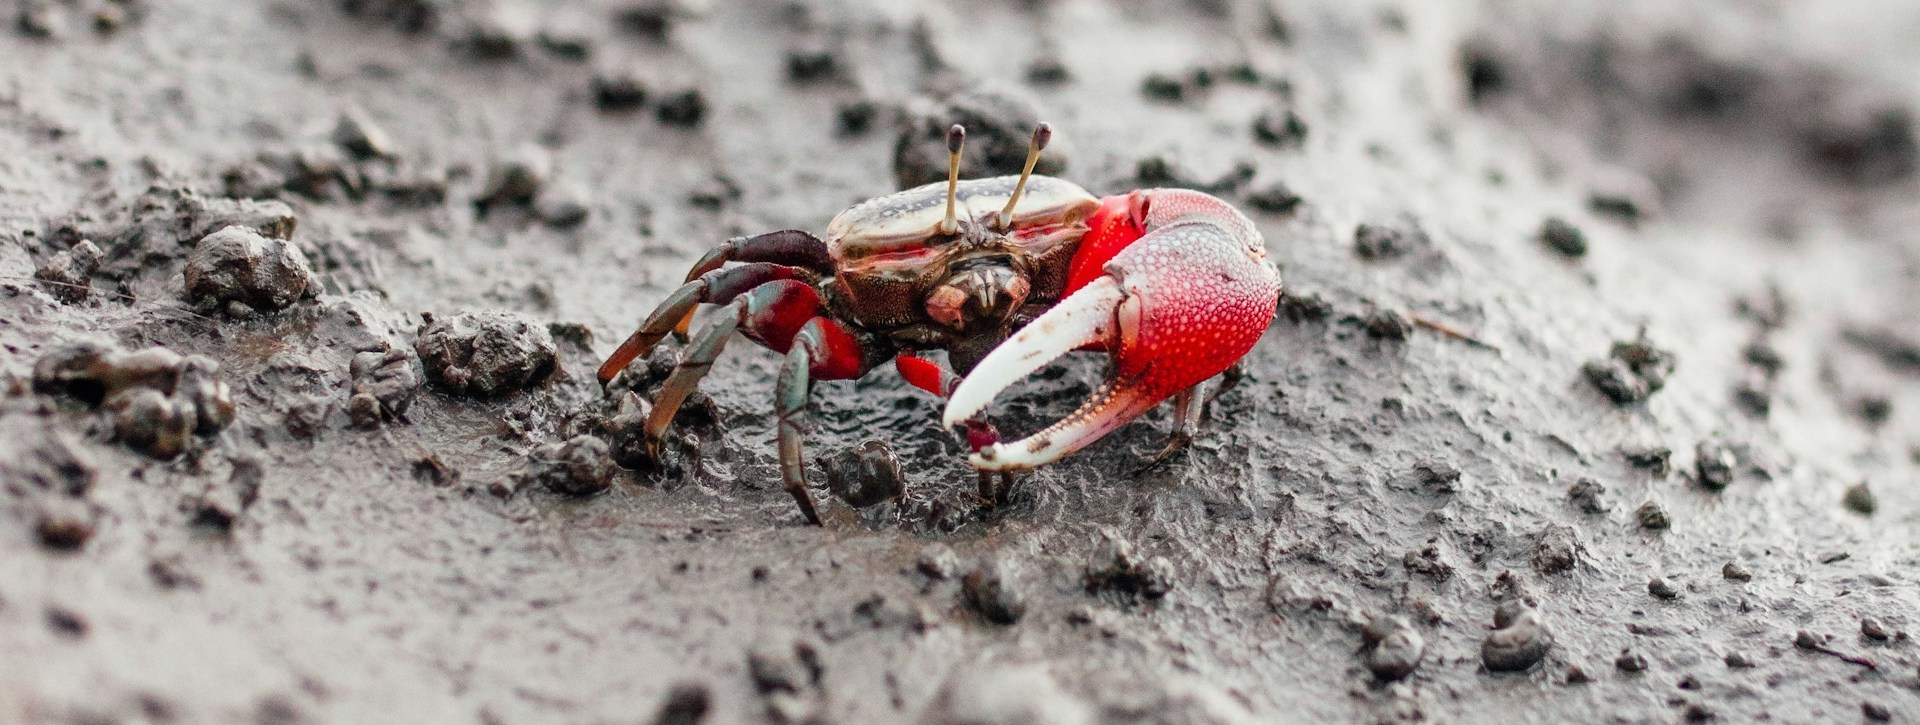
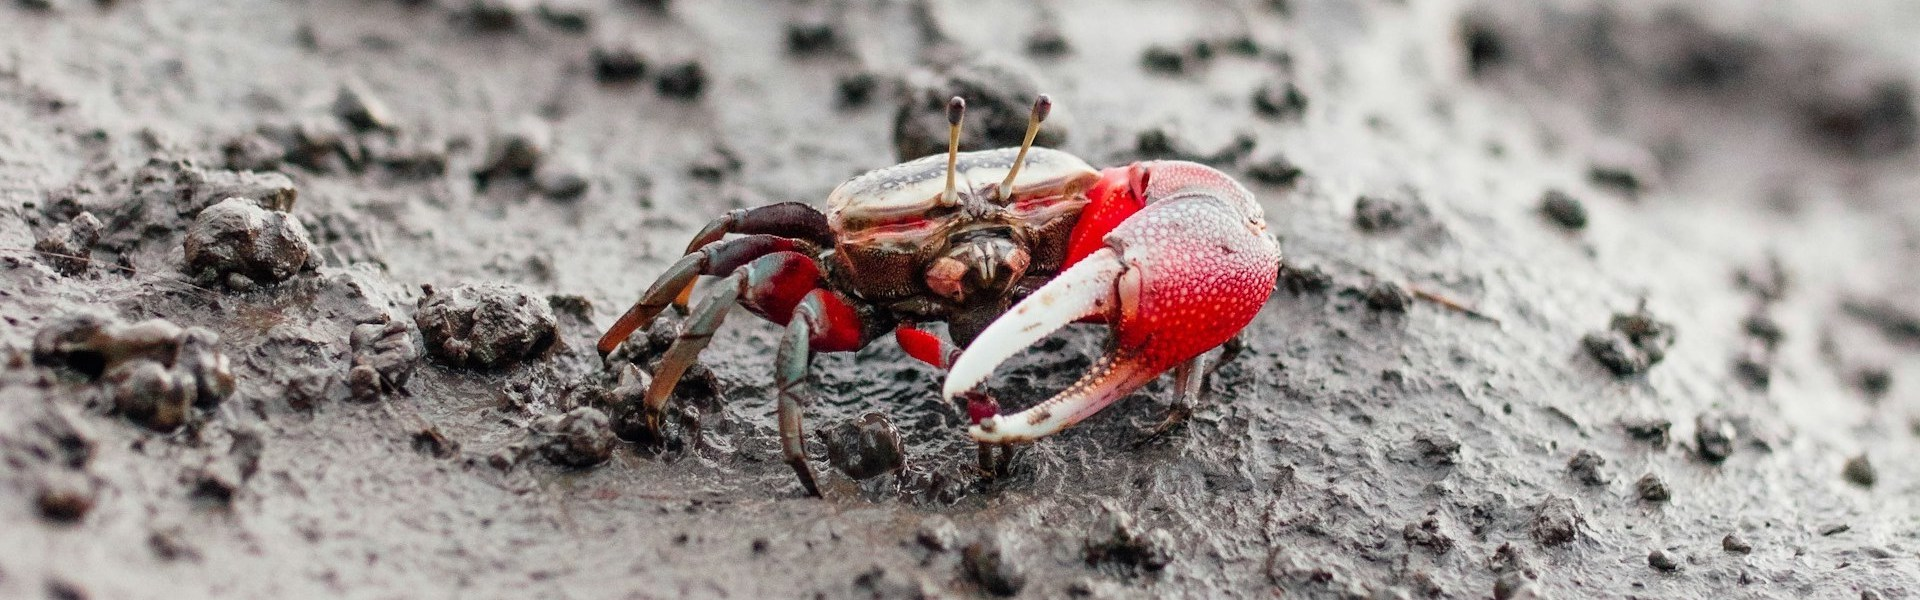
update image with attribution

diff --git a/README.md b/README.md
@@ -6,13 +6,19 @@ _A curated list of awesome resources on astrobiology._
 
 <summary> Definition From Wikipedia </summary>
 
-> **Astrobiology** (also **xenology** or **exobiology**) is a scientific field within the [life](https://en.wikipedia.org/wiki/List_of_life_sciences "List of life sciences") and [environmental sciences](https://en.wikipedia.org/wiki/Environmental_science "Environmental science") that studies the [origins](https://en.wikipedia.org/wiki/Abiogenesis "Abiogenesis"), [early evolution](https://en.wikipedia.org/wiki/Protocell "Protocell"), distribution, and future of [life](https://en.wikipedia.org/wiki/Life "Life") in the [universe](https://en.wikipedia.org/wiki/Universe "Universe") by investigating its deterministic conditions and contingent events. [[2](https://en.wikipedia.org/wiki/Astrobiology#cite_note-about-2)] [^wikipedia_citation]
+> **Astrobiology** (also **xenology** or **exobiology**) is a scientific field within the [life](https://en.wikipedia.org/wiki/List_of_life_sciences "List of life sciences") and [environmental sciences](https://en.wikipedia.org/wiki/Environmental_science "Environmental science") that studies the [origins](https://en.wikipedia.org/wiki/Abiogenesis "Abiogenesis"), [early evolution](https://en.wikipedia.org/wiki/Protocell "Protocell"), distribution, and future of [life](https://en.wikipedia.org/wiki/Life "Life") in the [universe](https://en.wikipedia.org/wiki/Universe "Universe") by investigating its deterministic conditions and contingent events. [[2](https://en.wikipedia.org/wiki/Astrobiology#cite_note-about-2)] As a discipline, astrobiology is founded on the premise that life may exist beyond Earth. [[3](https://en.wikipedia.org/wiki/Astrobiology#cite_note-3)]
+>
+> Research in astrobiology comprises three main areas: the study of [habitable environments](https://en.wikipedia.org/wiki/Planetary_habitability "Planetary habitability") in the [Solar System](https://en.wikipedia.org/wiki/Solar_System "Solar System") and beyond, the search for planetary [biosignatures](https://en.wikipedia.org/wiki/Biosignatures "Biosignatures") of past or present extraterrestrial life, and the study of the [origin](https://en.wikipedia.org/wiki/Abiogenesis "Abiogenesis") and [early evolution](https://en.wikipedia.org/wiki/Protocell "Protocell") of life on Earth.
+>
+> The field of astrobiology has its origins in the 20th century with the advent of [space exploration](https://en.wikipedia.org/wiki/Space_exploration "Space exploration") and the discovery of [exoplanets](https://en.wikipedia.org/wiki/Exoplanets "Exoplanets"). Early astrobiology research focused on the search for extraterrestrial life and the study of the potential for life to exist on other planets. [[2](https://en.wikipedia.org/wiki/Astrobiology#cite_note-about-2)] In the 1960s and 1970s, NASA began its astrobiology pursuits within the [Viking program](https://en.wikipedia.org/wiki/Viking_program "Viking program"), which was the first US mission to land on Mars and search for [signs of life](https://en.wikipedia.org/wiki/Viking_biological_experiments "Viking biological experiments"). [[4](https://en.wikipedia.org/wiki/Astrobiology#cite_note-4)] This mission, along with other early space exploration missions, laid the foundation for the development of astrobiology as a discipline. [^wikipedia_citation]
 
 [^wikipedia_citation]: Wikipedia contributors. "Astrobiology." Wikipedia. Last modified October 20, 2025. Accessed October 24, 2025. <https://en.wikipedia.org/wiki/Astrobiology>.
 
 </details>
 
-![](./assets/astrobiology.jpg)
+![](./assets/astrobiology.jpg) [^image_attribution]
+
+[^image_attribution]: Image used under the [Unsplash License](https://unsplash.com/license), i.e. "All images can be downloaded and used for free", "Commercial and non-commercial purposes", and "No permission needed (though attribution is appreciated!)". Image Link: <https://unsplash.com/photos/a-red-crab-crawling-in-the-sand-hapGkr3_-Lo>. Image Description: "a red crab crawling in the sand". Image Photographer: [Ryan Le](https://unsplash.com/@ryan_le).
 
 ## Contents
 
